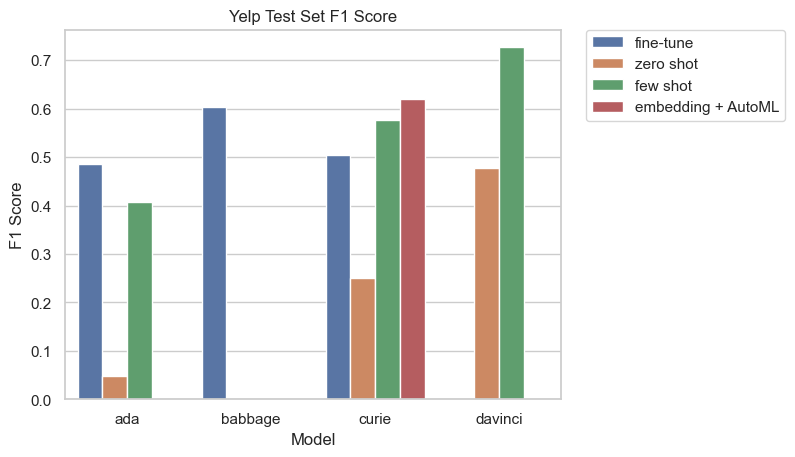
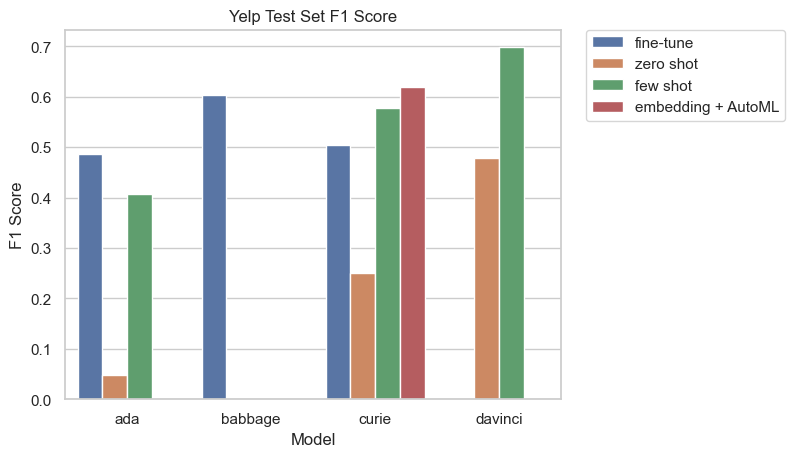
fewshots

diff --git a/notes.md b/notes.md
@@ -10,18 +10,18 @@ For classification, below are the different models and modes that were tried. As
 
 ![](images/yelp_test_f1.png)
 
-|    | Model   | Technique          |   Accuracy |   F1 Score | job                        |
-|---:|:--------|:-------------------|-----------:|-----------:|:---------------------------|
-|  0 | ada     | fine-tune          |     0.5263 |     0.4855 | nan                        |
-|  6 | ada     | zero shot          |     0.1095 |     0.0482 | nan                        |
-|  7 | ada     | few shot           |     0.4231 |     0.4068 | patient_ship_3dg6gh430b_89 |
-|  1 | babbage | fine-tune          |     0.6147 |     0.6042 | nan                        |
-|  2 | curie   | zero shot          |     0.2751 |     0.251  | nan                        |
-|  3 | curie   | embedding + AutoML |     0.6241 |     0.6202 | nan                        |
-|  4 | curie   | fine-tune          |     0.5376 |     0.5041 | nan                        |
-|  8 | curie   | few shot           |     0.5799 |     0.5768 | jolly_rhythm_cnryl9j3f0_83 |
-|  5 | davinci | zero shot          |     0.4763 |     0.4785 | nan                        |
-|  9 | davinci | few shot           |     0.7278 |     0.7268 | zen_candle_x9l37c7hs0_277  |
+| Model   | Technique          |   Accuracy |   F1 Score | job                         |
+|:--------|:-------------------|-----------:|-----------:|:----------------------------|
+| ada     | fine-tune          |     0.5263 |     0.4855 | nan                         |
+| ada     | zero shot          |     0.1095 |     0.0482 | nan                         |
+| ada     | few shot           |     0.4231 |     0.4068 | patient_ship_3dg6gh430b_89  |
+| babbage | fine-tune          |     0.6147 |     0.6042 | nan                         |
+| curie   | zero shot          |     0.2751 |     0.251  | nan                         |
+| curie   | embedding + AutoML |     0.6241 |     0.6202 | nan                         |
+| curie   | fine-tune          |     0.5376 |     0.5041 | nan                         |
+| curie   | few shot           |     0.5799 |     0.5768 | jolly_rhythm_cnryl9j3f0_83  |
+| davinci | zero shot          |     0.4763 |     0.4785 | nan                         |
+| davinci | few shot           |     0.6992 |     0.6982 | placid_energy_hzkj1x77wl_85 |
 
 
 ### Hyperparameter tuning for fine-tuning is useful. 
@@ -71,7 +71,7 @@ Looking at which accuracies are affected the most, (maybe expectedly) there is a
 
 ![](images/diff_accuracy_f1_vs_fine_tune_accuracy_f1.png)
 
-After some investigation, I am able to reproduce the same numbers that are reported by the fine-tuning if the validation dataset from the fine-tuning is used. Any other dataset, however, shows the same difference as above. So, in some regard, the fine-tuning is overfitting to the validation dataset.
+After some investigation, I am able to reproduce the same numbers that are reported by the fine-tuning if the validation dataset from the fine-tuning is used. Most other datasets sampled from the full yelp-5 dataset, however, show the same difference as above. So, it seesm that the fine-tuning is overfitting on the validation dataset (or that the valdiation set is not sufficiently representative of the overall dataset) -- in any case, a larger validation dataset should fix the issue. 
 
 ### Zero-shot prompt crafting
 
